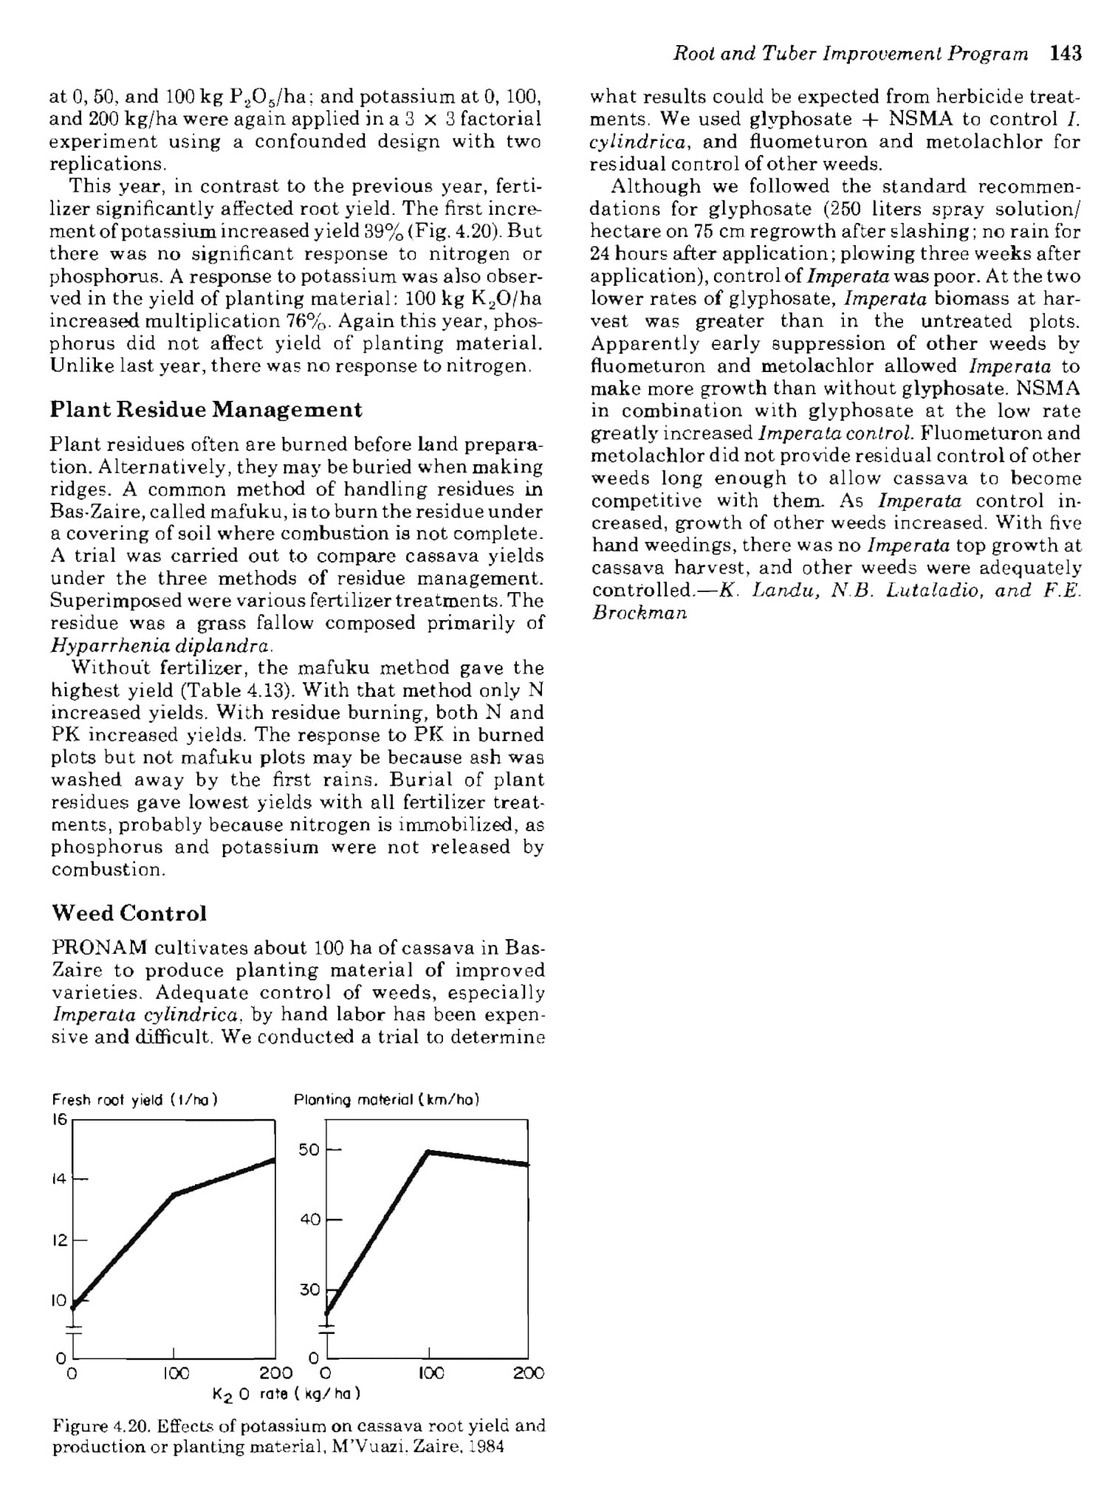
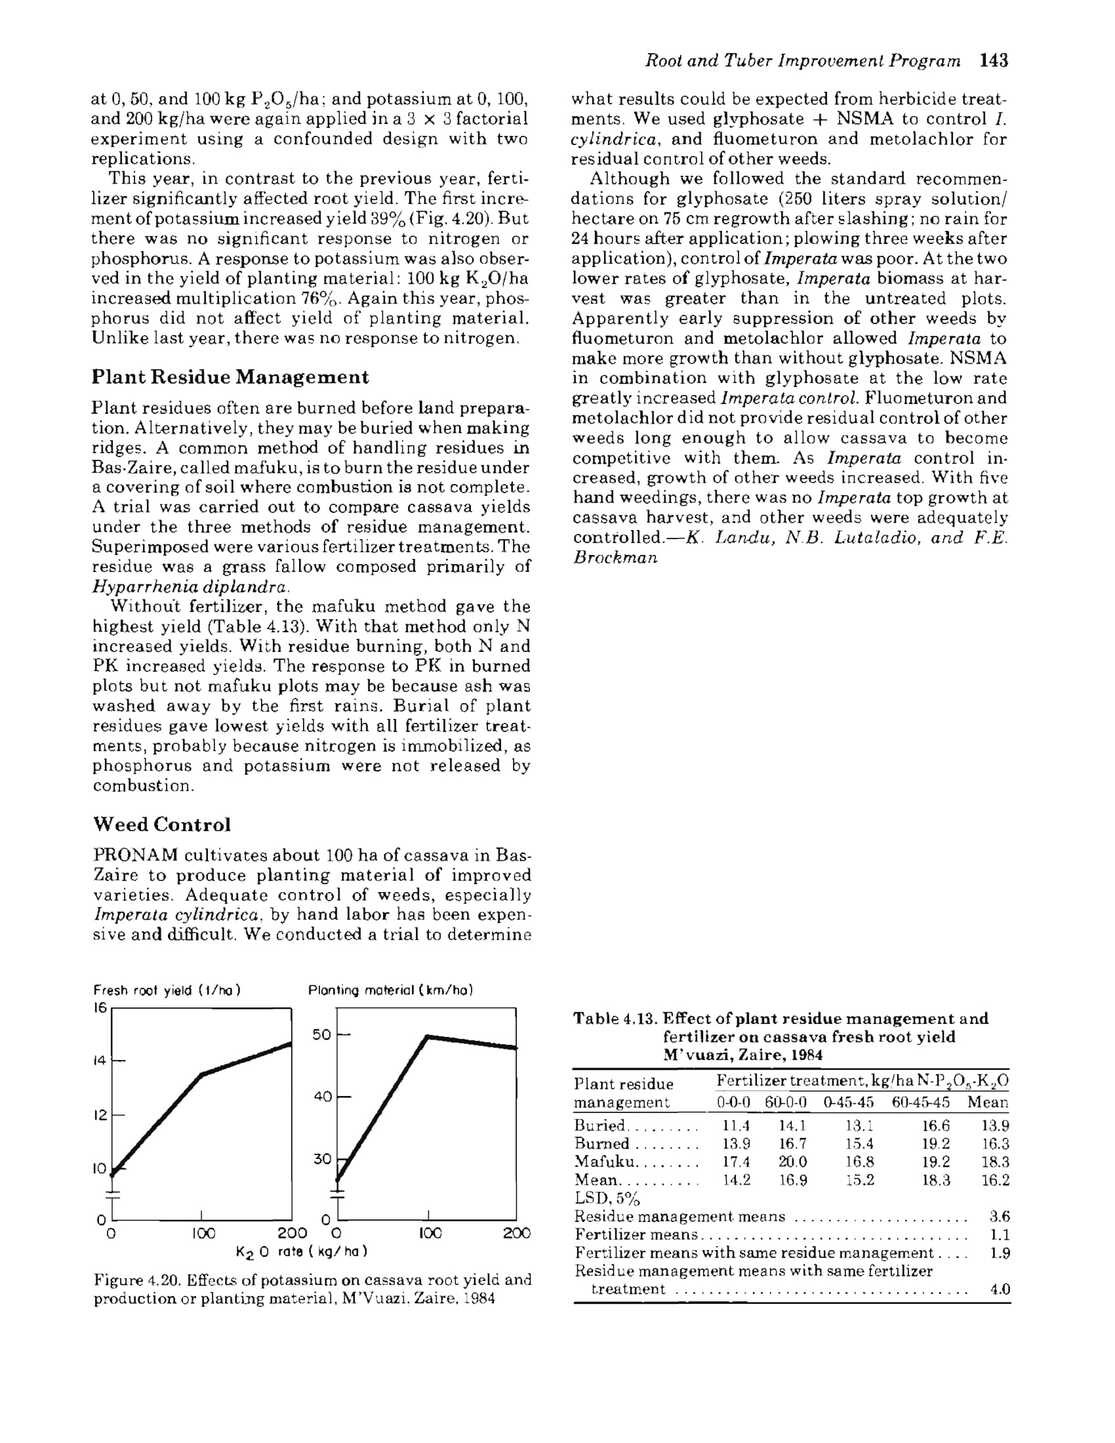
Present

Changed region(s): [[0.0305, 0.0624, 0.4879, 0.9979], [0.5184, 0.0312, 0.9758, 0.4366], [0.5184, 0.6861, 0.9148, 0.9044]]

diff --git a/1984.html b/1984.html
@@ -336,8 +336,19 @@
                   class="rounded"
                   src="images/1984/1984-26.jpg"
                   alt="feature image"
+                  usemap="#image26"
                 />
               </figure>
+              <map name="image26">
+                <area
+                  target=""
+                  alt=""
+                  title=""
+                  href="tables/1984/Table 4.13.xlsx"
+                  coords="556,993,1049,1316"
+                  shape="rect"
+                />
+              </map>
             </section>
           </article>
         </div>

diff --git a/1989-90.html b/1989-90.html
@@ -131,6 +131,13 @@
                   alt="feature image"
                 />
               </figure>
+              <figure class="mb-4">
+                <img
+                  class="rounded"
+                  src="images/1989-90/1989-90-8.jpg"
+                  alt="feature image"
+                />
+              </figure>
             </section>
           </article>
         </div>
